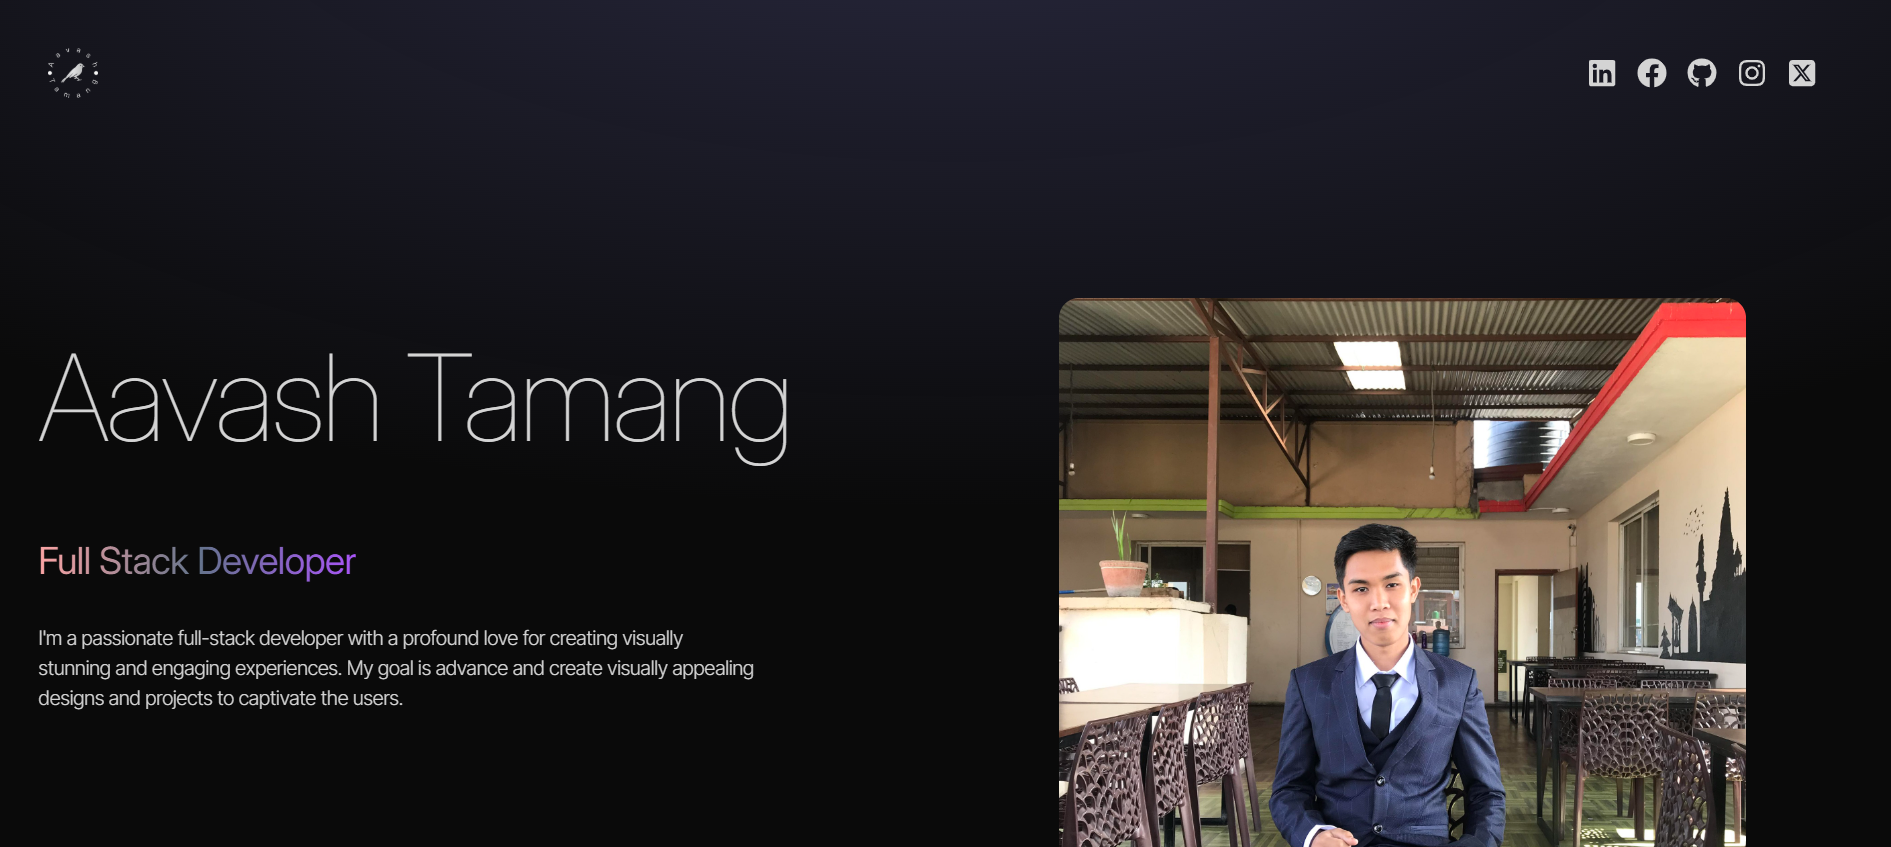
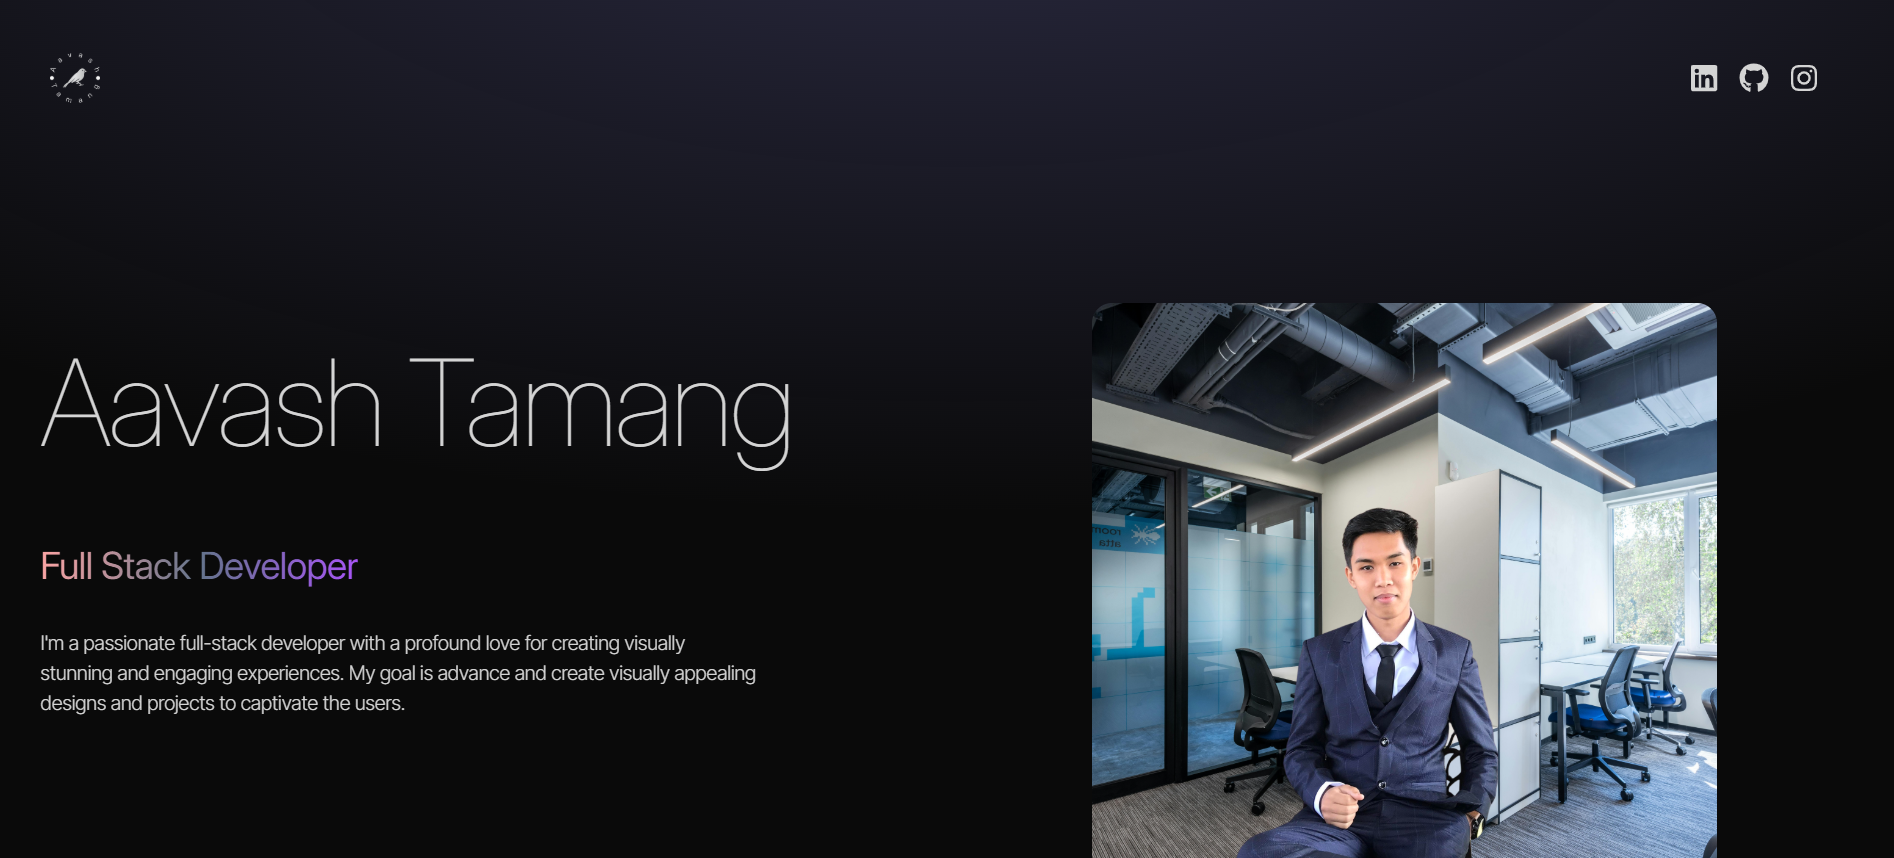
small fixes

diff --git a/src/components/About.jsx b/src/components/About.jsx
@@ -17,7 +17,7 @@ const About = () => {
           className="w-full lg:w-1/2 lg:p-8"
         >
           <div className="flex items-center justify-center">
-            <img className="rounded-2xl" src={aboutImg} alt="about" />
+            <img className="rounded-2xl p-2" src={aboutImg} alt="about" />
           </div>
         </motion.div>
         <motion.div
@@ -27,7 +27,7 @@ const About = () => {
           className="w-full lg:w-1/2"
         >
           <div className="flex justify-center lg:justify-start">
-            <p className="my-2 max-w-xl py-6">{ABOUT_TEXT}</p>
+            <p className="my-2 max-w-xl p-2 py-6">{ABOUT_TEXT}</p>
           </div>
         </motion.div>
       </div>

diff --git a/src/components/Hero.jsx b/src/components/Hero.jsx
@@ -1,5 +1,5 @@
 import { HERO_CONTENT } from "../constants";
-import profilePicture from "../assets/aavash.jpg";
+import profilePicture from "../assets/aavash.png";
 import { motion } from "motion/react";
 
 const container = (delay) => ({
@@ -50,7 +50,7 @@ const Hero = () => {
               initial={{ x: 100, opacity: 0 }}
               animate={{ x: 0, opacity: 1 }}
               transition={{ duration: 1, delay: 1.2 }}
-              className="w-[550px] rounded-2xl"
+              className="w-[500px] rounded-2xl"
               src={profilePicture}
               alt="Aavash Tamang"
             />
